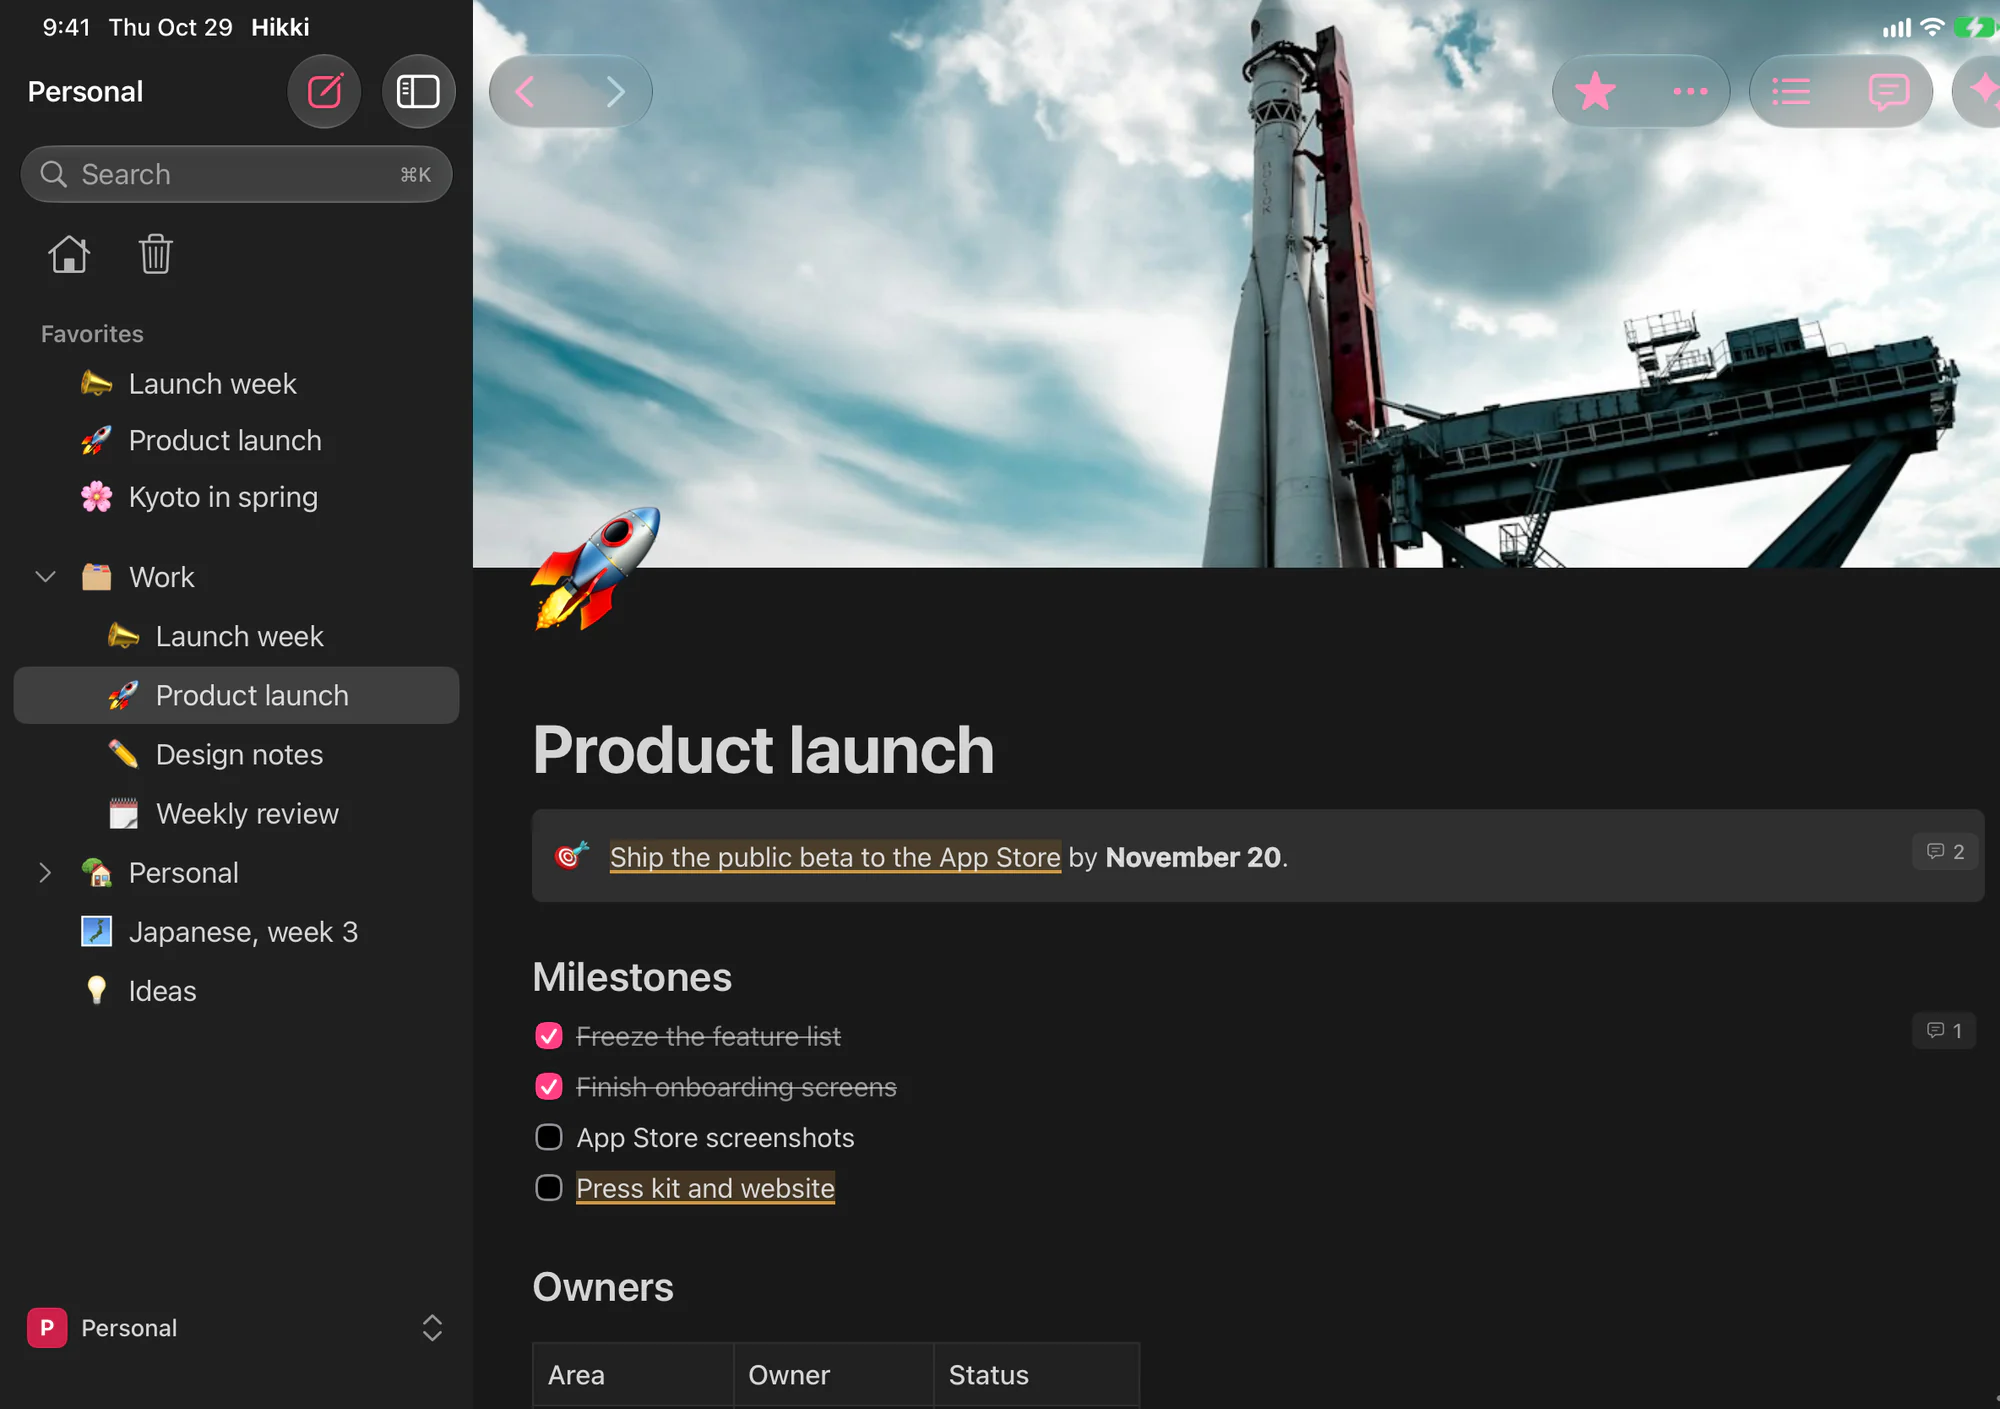
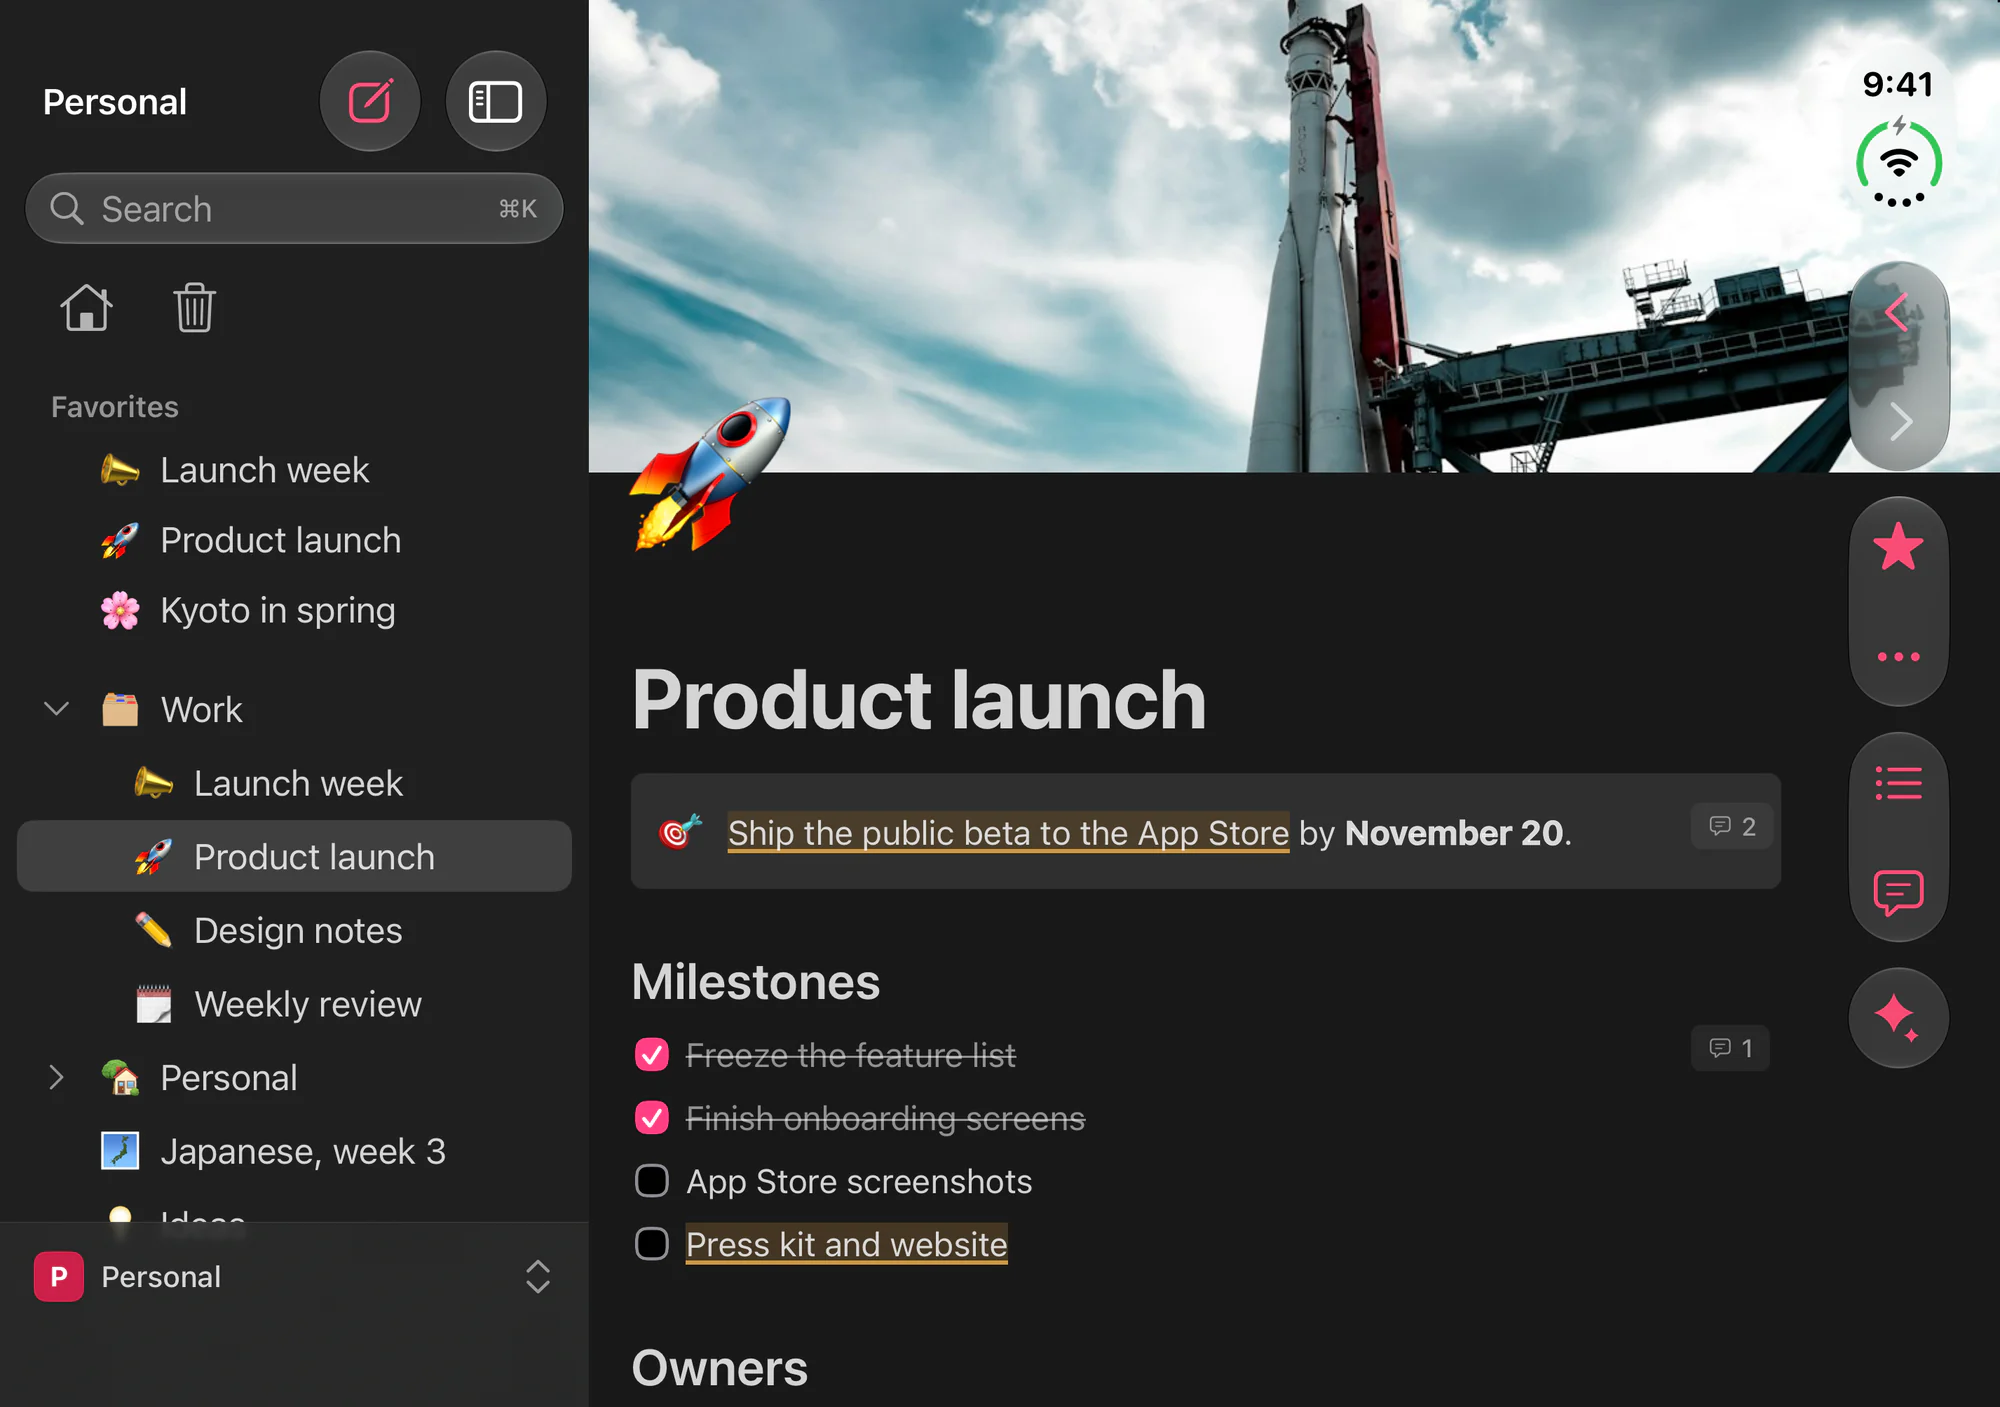
Website: the open iPhone Duo is its own inner screen, no crease, "Ready for iPhone Duo."

diff --git a/apps/website/src/styles.css b/apps/website/src/styles.css
@@ -1227,6 +1227,8 @@
   }
   .duo-left {
     left: 0;
+    /* A pixel under the right half, so no seam shows between them once open. */
+    width: calc(50% + 1px);
     /* Under the folded half until it starts to open (its edge would show past the outer screen). */
     opacity: clamp(0, calc(var(--p) * 20), 1);
     border-right: 0;
@@ -1261,9 +1263,12 @@
     max-width: none;
     object-fit: cover;
   }
-  .duo-face-left,
   .duo-face-right {
     width: 200%;
+  }
+  /* The left half is a pixel wider (it runs under the right): its picture stays the open screen's width. */
+  .duo-face-left {
+    width: calc(200% - 2px);
   }
   .duo-face-right {
     left: -100%;
@@ -1277,23 +1282,13 @@
   :root[data-theme='dark'] .duo-face.only-light {
     display: none;
   }
-  /* The inner screen darkens as it closes, and the hinge shows once it is open. */
+  /* The inner screen darkens as it closes. */
   .duo-shade {
     position: absolute;
     inset: 0;
     background: #000000;
     opacity: calc((1 - var(--p)) * 0.6);
     pointer-events: none;
-  }
-  .duo-left::after {
-    content: '';
-    position: absolute;
-    top: 0;
-    bottom: 0;
-    right: 0;
-    width: 1px;
-    background: rgb(0 0 0 / 0.22);
-    opacity: var(--p);
   }
   /* Still (no script, or Reduce Motion): the phone open, and folded beside it. */
   .duo-folded-still {

diff --git a/apps/website/src/components/duo-unfold.tsx b/apps/website/src/components/duo-unfold.tsx
@@ -55,12 +55,12 @@ export function DuoUnfold() {
           <div class="duo-sticky grid items-center gap-8 p-8 md:p-12 lg:grid-cols-12 lg:gap-12">
             <div class="lg:col-span-4">
               <h2 class="expanded text-[clamp(1.875rem,3.4vw,3rem)] leading-[1.05] font-[850] tracking-[-0.02em]">
-                iPhone Duo, folded or open.
+                Ready for iPhone Duo.
               </h2>
               <p class="mt-6 max-w-[30rem] text-lg leading-relaxed">
-                Folded, it is the iPhone layout, with the page's actions in the strip beside the
-                camera. Open it and Hikki lays out as on iPad: the sidebar and the page side by
-                side.
+                Folded, it's the iPhone you know, with your page's tools in the strip beside the
+                camera. Open it up, and the sidebar and your page spread out side by side, just like
+                on iPad.
               </p>
             </div>
             <div class="duo-stage lg:col-span-8" data-still>

diff --git a/CLAUDE.md b/CLAUDE.md
@@ -189,8 +189,8 @@ apps/website/                      the site at hikki.yancey.app (TanStack Start 
                               (`data-theme`, THEME_SCRIPT in src/theme.ts runs before paint), screenshots in public/shots/ as WebP, each with a -dark twin (`Shot`), made by
                               `bun run shots <captures>` (sharp; crops in shots.json; public/og.jpg is the link-card JPEG);
                               the iPhone Duo opens like a book as the page scrolls (src/components/duo-unfold.tsx: `--p`
-                              from the scroll, still under Reduce Motion) — its open screen is the iPad layout shot on an
-                              iPad Pro 11" (duo-open), since the simulator can't unfold a Duo;
+                              from the scroll, still under Reduce Motion) — its open screen (duo-open) is the Duo simulator's
+                              inner screen, `--display=3` once the device is unfolded by hand (simctl can't unfold it);
                               /p/<record>#<key> and /shared (src/routes/p.$id.tsx, shared.*) read published pages (see Publish link);
                               the download moment is src/components/store.tsx — until APP_STORE_URL in src/site.ts is
                               set, "Coming to the App Store" is a status line in the header and the foot offers a
